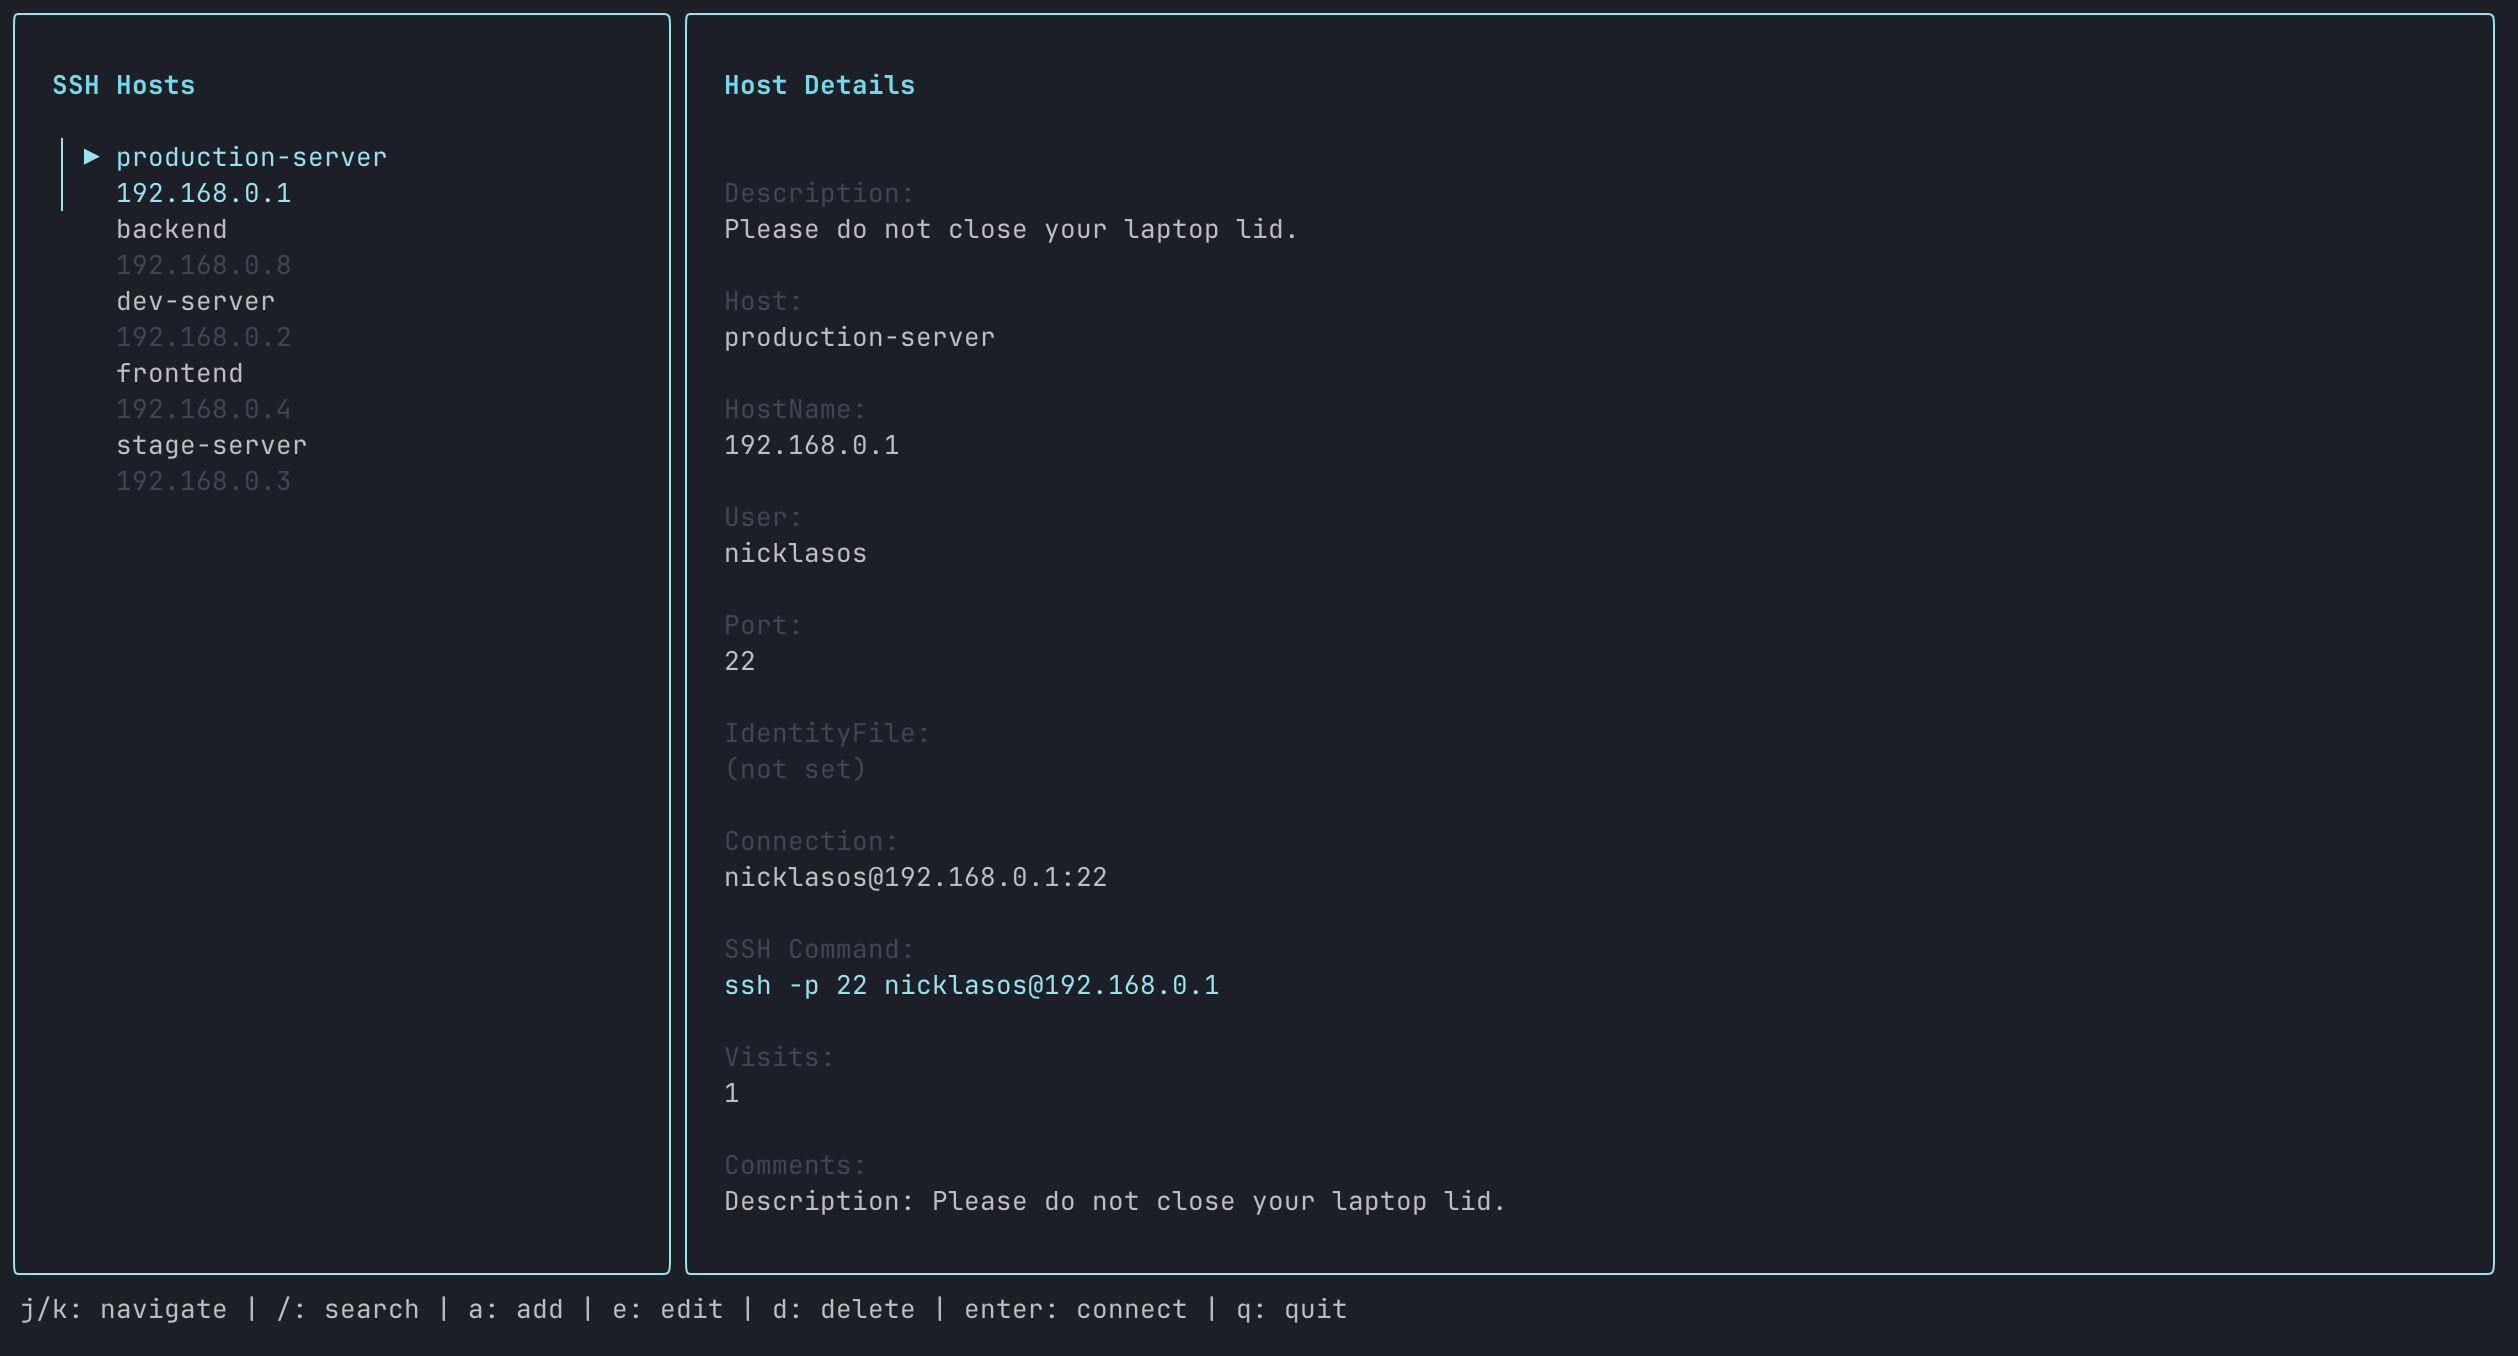
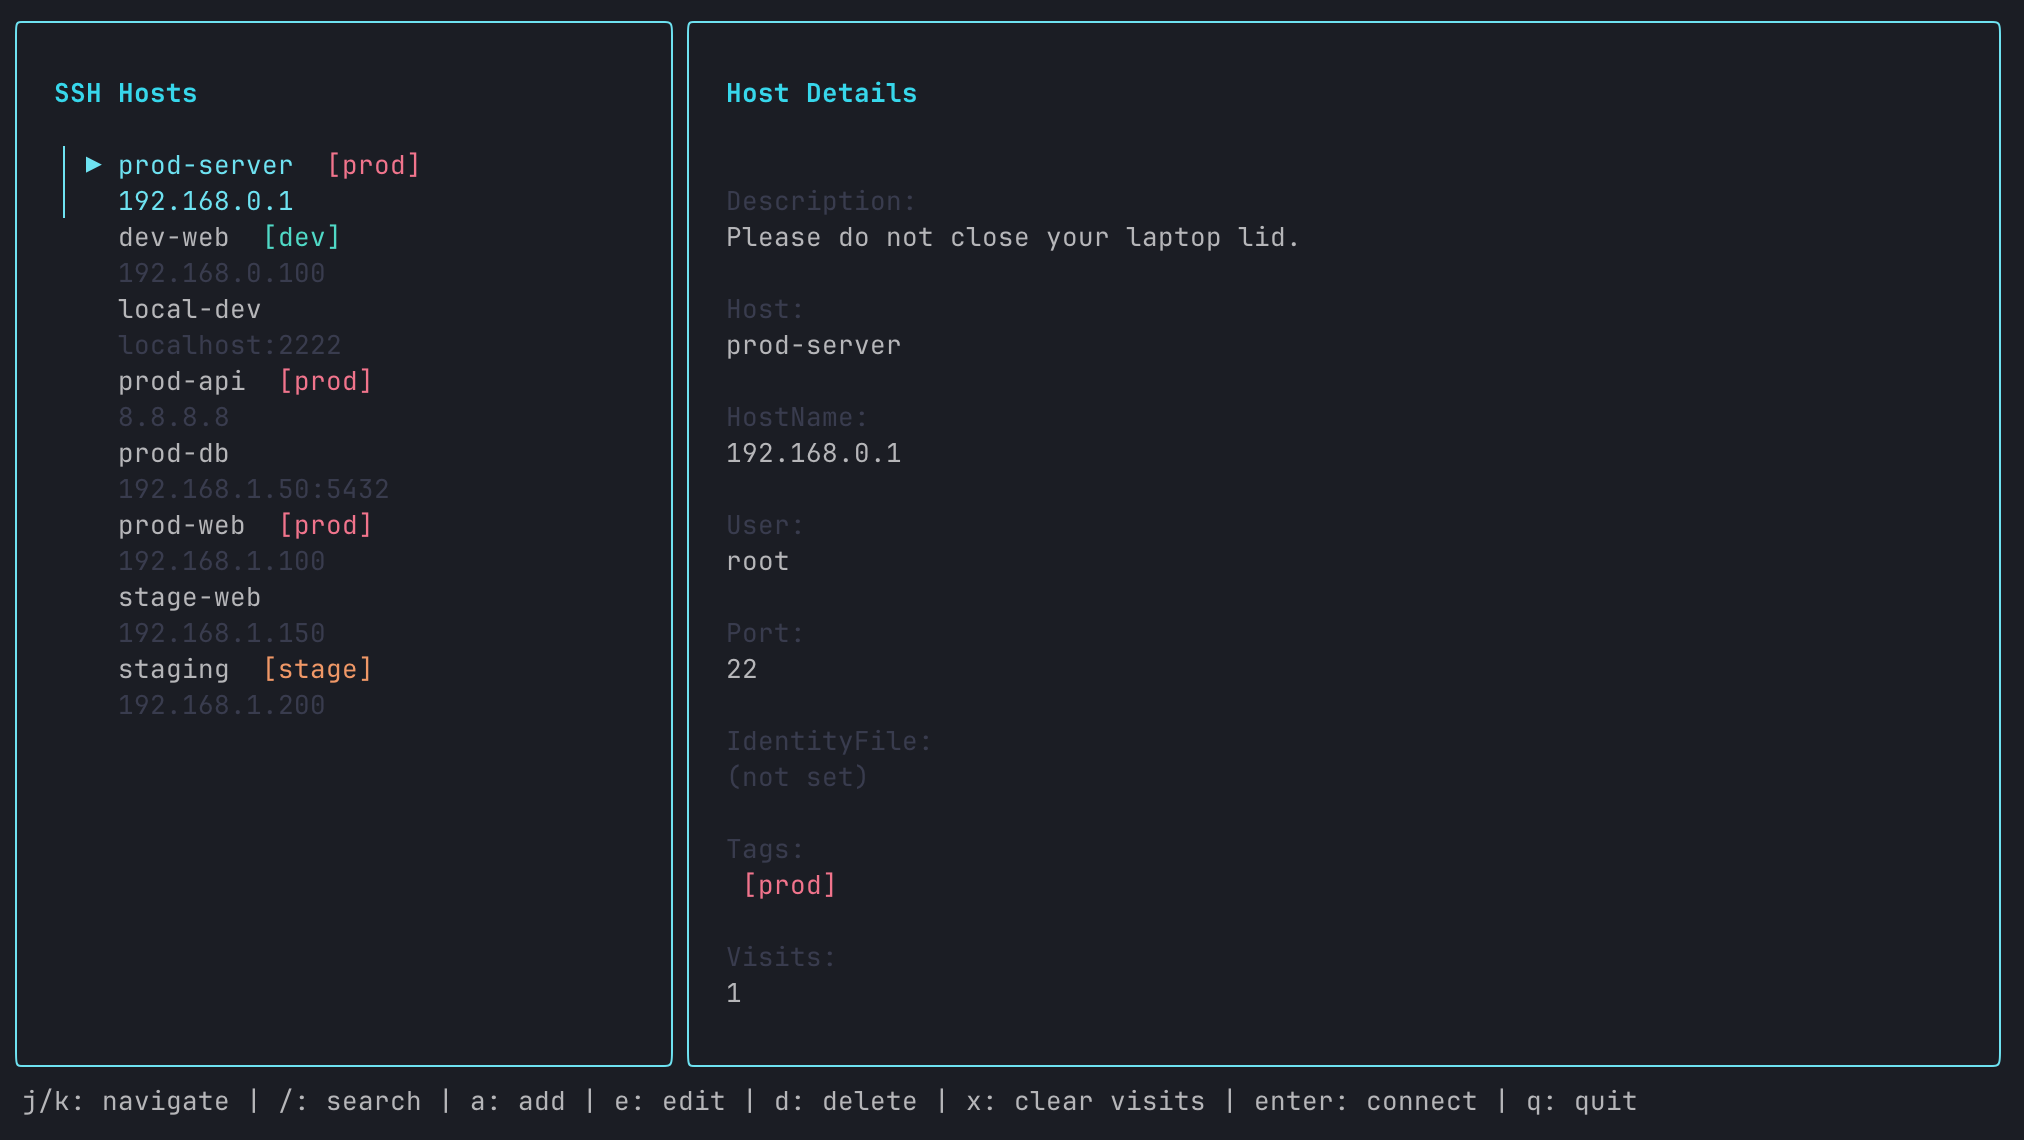
Add tags feature with colored badges
Features:
- Add tags support to SSH host entries
- Display colored tag badges in list view (prod=red, dev=green, stage=yellow)
- Display tags in detail view
- Tags field in editor (comma-separated input)
- Tags stored as # Tags: comment in SSH config
- Search by tags
- Fix tag duplication on save
- Compact tag spacing for better fit
- Tags wrap to new line when more than 2 tags

UI improvements:
- Fix tag spacing in detail view
- Consistent tag display across views
- Removed padding from tags for more compact display
- Smart tag wrapping for better readability

diff --git a/internal/ui/list.go b/internal/ui/list.go
@@ -8,6 +8,21 @@ import (
 	"github.com/nicklasos/gosshit/internal/sshconfig"
 )
 
+// formatTagBadge returns a styled badge for a tag
+func formatTagBadge(tag string) string {
+	tagLower := strings.ToLower(tag)
+	switch tagLower {
+	case "prod":
+		return tagProdStyle.Render("[" + tag + "]")
+	case "dev":
+		return tagDevStyle.Render("[" + tag + "]")
+	case "stage":
+		return tagStageStyle.Render("[" + tag + "]")
+	default:
+		return tagDefaultStyle.Render("[" + tag + "]")
+	}
+}
+
 // ListModel represents the left panel list view
 type ListModel struct {
 	entries     []*sshconfig.HostEntry
@@ -74,11 +89,20 @@ func (m *ListModel) ApplyFilter() {
 	var filtered []*sshconfig.HostEntry
 	term := strings.ToLower(m.searchTerm)
 	for _, entry := range m.entries {
+		// Check host, hostname, user, description
 		if strings.Contains(strings.ToLower(entry.Host), term) ||
 			strings.Contains(strings.ToLower(entry.HostName), term) ||
 			strings.Contains(strings.ToLower(entry.User), term) ||
 			strings.Contains(strings.ToLower(entry.Description), term) {
 			filtered = append(filtered, entry)
+			continue
+		}
+		// Check tags
+		for _, tag := range entry.Tags {
+			if strings.Contains(strings.ToLower(tag), term) {
+				filtered = append(filtered, entry)
+				break
+			}
 		}
 	}
 
@@ -194,32 +218,62 @@ func (m *ListModel) formatEntry(entry *sshconfig.HostEntry, selected bool) strin
 		hostname += ":" + entry.Port
 	}
 
-	// Main line: Host alias
-	mainLine := entry.Host
+	// Main line: Host alias with tags
+	hostAlias := entry.Host
+	// Add tag badges
+	var tagBadges []string
+	for _, tag := range entry.Tags {
+		tagBadges = append(tagBadges, formatTagBadge(tag))
+	}
+
+	mainLine := hostAlias
+	var tagLine string
+	if len(tagBadges) > 0 {
+		if len(tagBadges) > 2 {
+			// More than 2 tags: put all tags on a new line
+			tagLine = "  " + strings.Join(tagBadges, " ")
+		} else {
+			// 2 or fewer tags: all on main line
+			mainLine += " " + strings.Join(tagBadges, " ")
+		}
+	}
 	if selected {
 		mainLine = "▶ " + mainLine
 	} else {
 		mainLine = "  " + mainLine
 	}
+	// tagLine already has "  " prefix for alignment
 
 	// Second line: IP/hostname in smaller, subtler text (indented to match main line)
 	subLine := "  " + hostname
 
 	// Style based on selection
-	var styledMain, styledSub string
+	var linesToJoin []string
 	if selected {
-		styledMain = listItemSelectedStyle.Render(mainLine)
-		// Sub-line needs same border styling but different text color
-		// Keep the border to maintain alignment, use accent color for visibility
-		styledSub = listItemSelectedStyle.Copy().
+		linesToJoin = append(linesToJoin, listItemSelectedStyle.Render(mainLine))
+		if tagLine != "" {
+			// Style tag line with same border styling
+			linesToJoin = append(linesToJoin, listItemSelectedStyle.Copy().
+				Foreground(accentColor).
+				Render(tagLine))
+		}
+		// IP line needs same border styling but different text color
+		linesToJoin = append(linesToJoin, listItemSelectedStyle.Copy().
 			Foreground(accentColor). // Use accent color for IP when selected
-			Render(subLine)
+			Render(subLine))
 	} else {
-		styledMain = listItemStyle.Render(mainLine)
-		styledSub = listItemStyle.Copy().Foreground(subtleColor).Render(subLine)
+		linesToJoin = append(linesToJoin, listItemStyle.Render(mainLine))
+		if tagLine != "" {
+			linesToJoin = append(linesToJoin, listItemStyle.Copy().
+				Foreground(subtleColor).
+				Render(tagLine))
+		}
+		linesToJoin = append(linesToJoin, listItemStyle.Copy().
+			Foreground(subtleColor).
+			Render(subLine))
 	}
 
-	return lipgloss.JoinVertical(lipgloss.Left, styledMain, styledSub)
+	return lipgloss.JoinVertical(lipgloss.Left, linesToJoin...)
 }
 
 func max(a, b int) int {

diff --git a/internal/ui/editor.go b/internal/ui/editor.go
@@ -33,6 +33,7 @@ const (
 	fieldPort
 	fieldIdentityFile
 	fieldDescription
+	fieldTags
 	fieldCount
 )
 
@@ -64,6 +65,9 @@ func NewEditorModel() *EditorModel {
 	m.fields[fieldDescription] = textinput.New()
 	m.fields[fieldDescription].Placeholder = "Description (optional)"
 
+	m.fields[fieldTags] = textinput.New()
+	m.fields[fieldTags].Placeholder = "prod,dev,stage (comma-separated, optional)"
+
 	return m
 }
 
@@ -85,6 +89,12 @@ func (m *EditorModel) SetEntry(entry *sshconfig.HostEntry) {
 		m.fields[fieldPort].SetValue(entry.Port)
 		m.fields[fieldIdentityFile].SetValue(entry.IdentityFile)
 		m.fields[fieldDescription].SetValue(entry.Description)
+		// Convert tags slice to comma-separated string
+		if len(entry.Tags) > 0 {
+			m.fields[fieldTags].SetValue(strings.Join(entry.Tags, ", "))
+		} else {
+			m.fields[fieldTags].SetValue("")
+		}
 	} else {
 		// Default values for new entries
 		m.fields[fieldHost].SetValue("")
@@ -93,6 +103,7 @@ func (m *EditorModel) SetEntry(entry *sshconfig.HostEntry) {
 		m.fields[fieldPort].SetValue("22")
 		m.fields[fieldIdentityFile].SetValue("")
 		m.fields[fieldDescription].SetValue("")
+		m.fields[fieldTags].SetValue("")
 	}
 
 	// Focus first field
@@ -226,6 +237,19 @@ func (m *EditorModel) Validate() error {
 
 // GetEntry returns the entry from the form fields
 func (m *EditorModel) GetEntry() *sshconfig.HostEntry {
+	// Parse tags from comma-separated string
+	var tags []string
+	tagsStr := strings.TrimSpace(m.fields[fieldTags].Value())
+	if tagsStr != "" {
+		parts := strings.Split(tagsStr, ",")
+		for _, tag := range parts {
+			tag = strings.TrimSpace(tag)
+			if tag != "" {
+				tags = append(tags, tag)
+			}
+		}
+	}
+
 	return &sshconfig.HostEntry{
 		Host:         m.fields[fieldHost].Value(),
 		HostName:     m.fields[fieldHostName].Value(),
@@ -233,6 +257,7 @@ func (m *EditorModel) GetEntry() *sshconfig.HostEntry {
 		Port:         m.fields[fieldPort].Value(),
 		IdentityFile: m.fields[fieldIdentityFile].Value(),
 		Description:  m.fields[fieldDescription].Value(),
+		Tags:         tags,
 	}
 }
 
@@ -254,7 +279,7 @@ func (m *EditorModel) updateViewportContent() {
 	lines = append(lines, "")
 
 	// Field labels
-	labels := []string{"Host:", "HostName:", "User:", "Port:", "IdentityFile:", "Description:"}
+	labels := []string{"Host:", "HostName:", "User:", "Port:", "IdentityFile:", "Description:", "Tags:"}
 	for i, label := range labels {
 		lines = append(lines, "")
 		lines = append(lines, labelStyle.Render(label))

diff --git a/internal/sshconfig/parser.go b/internal/sshconfig/parser.go
@@ -140,25 +140,37 @@ func ParseConfig(path string) ([]*HostEntry, []string, error) {
 				}
 			}
 
-			// Extract description from comment buffer
+			// Extract description and tags from comment buffer
 			desc := ""
+			var tags []string
 			for _, c := range commentBuffer {
 				trimmed := strings.TrimSpace(c)
 				if trimmed == "" {
 					// Skip empty lines
 					continue
 				}
-				if strings.HasPrefix(trimmed, "# Description:") {
+				if strings.HasPrefix(trimmed, "# Tags:") {
+					// Extract tags (comma-separated)
+					tagStr := strings.TrimPrefix(trimmed, "# Tags:")
+					tagStr = strings.TrimSpace(tagStr)
+					if tagStr != "" {
+						parts := strings.Split(tagStr, ",")
+						for _, tag := range parts {
+							tag = strings.TrimSpace(tag)
+							if tag != "" {
+								tags = append(tags, tag)
+							}
+						}
+					}
+				} else if strings.HasPrefix(trimmed, "# Description:") {
 					// Explicit description format
 					desc = strings.TrimPrefix(trimmed, "# Description:")
 					desc = strings.TrimSpace(desc)
-					break
 				} else if strings.HasPrefix(trimmed, "#") && !strings.HasPrefix(trimmed, "##") {
 					// Regular comment line - use as description if we don't have one yet
 					if desc == "" {
 						desc = strings.TrimPrefix(trimmed, "#")
 						desc = strings.TrimSpace(desc)
-						// Don't break - keep looking for explicit Description format
 					}
 				}
 			}
@@ -166,6 +178,7 @@ func ParseConfig(path string) ([]*HostEntry, []string, error) {
 			currentEntry = &HostEntry{
 				Host:        value,
 				Description: desc,
+				Tags:        tags,
 				StartLine:   lineNum,
 				RawLines:    make([]string, 0),
 			}

diff --git a/internal/sshconfig/writer.go b/internal/sshconfig/writer.go
@@ -71,6 +71,14 @@ func writeEntry(file *os.File, entry *HostEntry) error {
 			}
 		}
 
+		// Write tags comment if we have any
+		if len(entry.Tags) > 0 {
+			tagsStr := strings.Join(entry.Tags, ", ")
+			if _, err := file.WriteString("# Tags: " + tagsStr + "\n"); err != nil {
+				return err
+			}
+		}
+
 		// Detect indentation style from the first non-empty, non-comment, non-Host line
 		indent := "    " // default to 4 spaces
 		for _, l := range entry.RawLines {
@@ -109,8 +117,8 @@ func writeEntry(file *os.File, entry *HostEntry) error {
 				continue
 			}
 			if strings.HasPrefix(trimmed, "#") {
-				// Skip description comments as we write them explicitly above
-				if strings.Contains(trimmed, "# Description:") {
+				// Skip description and tags comments as we write them explicitly above
+				if strings.Contains(trimmed, "# Description:") || strings.Contains(trimmed, "# Tags:") {
 					continue
 				}
 				// Preserve other comments
@@ -247,6 +255,13 @@ func writeEntry(file *os.File, entry *HostEntry) error {
 	// Write new entry from scratch
 	if entry.Description != "" {
 		if _, err := file.WriteString("# Description: " + entry.Description + "\n"); err != nil {
+			return err
+		}
+	}
+
+	if len(entry.Tags) > 0 {
+		tagsStr := strings.Join(entry.Tags, ", ")
+		if _, err := file.WriteString("# Tags: " + tagsStr + "\n"); err != nil {
 			return err
 		}
 	}

diff --git a/internal/ui/detail.go b/internal/ui/detail.go
@@ -91,6 +91,17 @@ func (m *DetailModel) View() string {
 		lines = append(lines, valueStyle.Foreground(subtleColor).Render("(not set)"))
 	}
 
+	// Tags
+	if len(m.entry.Tags) > 0 {
+		lines = append(lines, "")
+		lines = append(lines, labelStyle.Render("Tags:"))
+		var tagBadges []string
+		for _, tag := range m.entry.Tags {
+			tagBadges = append(tagBadges, formatTagBadge(tag))
+		}
+		lines = append(lines, strings.TrimSpace(strings.Join(tagBadges, " ")))
+	}
+
 	// Visit count
 	if m.visitCount > 0 {
 		lines = append(lines, "")

diff --git a/internal/ui/styles.go b/internal/ui/styles.go
@@ -99,4 +99,17 @@ var (
 
 	warningStyle = lipgloss.NewStyle().
 			Foreground(warningColor)
+
+	// Tag badge styles
+	tagProdStyle = lipgloss.NewStyle().
+			Foreground(lipgloss.Color("1")) // Red
+
+	tagDevStyle = lipgloss.NewStyle().
+			Foreground(lipgloss.Color("2")) // Green
+
+	tagStageStyle = lipgloss.NewStyle().
+			Foreground(lipgloss.Color("3")) // Yellow
+
+	tagDefaultStyle = lipgloss.NewStyle().
+			Foreground(subtleColor)
 )

diff --git a/internal/sshconfig/model.go b/internal/sshconfig/model.go
@@ -8,6 +8,7 @@ type HostEntry struct {
 	Port         string   // Port directive
 	IdentityFile string   // IdentityFile directive
 	Description  string   // Extracted from comment above Host entry
+	Tags         []string // Tags extracted from # Tags: comment
 	Comment      string   // Original comment block
 	RawLines     []string // Original lines for preservation
 	StartLine    int      // Starting line number in original file

diff --git a/main.go b/main.go
@@ -10,7 +10,7 @@ import (
 	"github.com/nicklasos/gosshit/internal/ui"
 )
 
-const version = "1.0.3"
+const version = "1.0.4"
 
 func main() {
 	// Define flags
